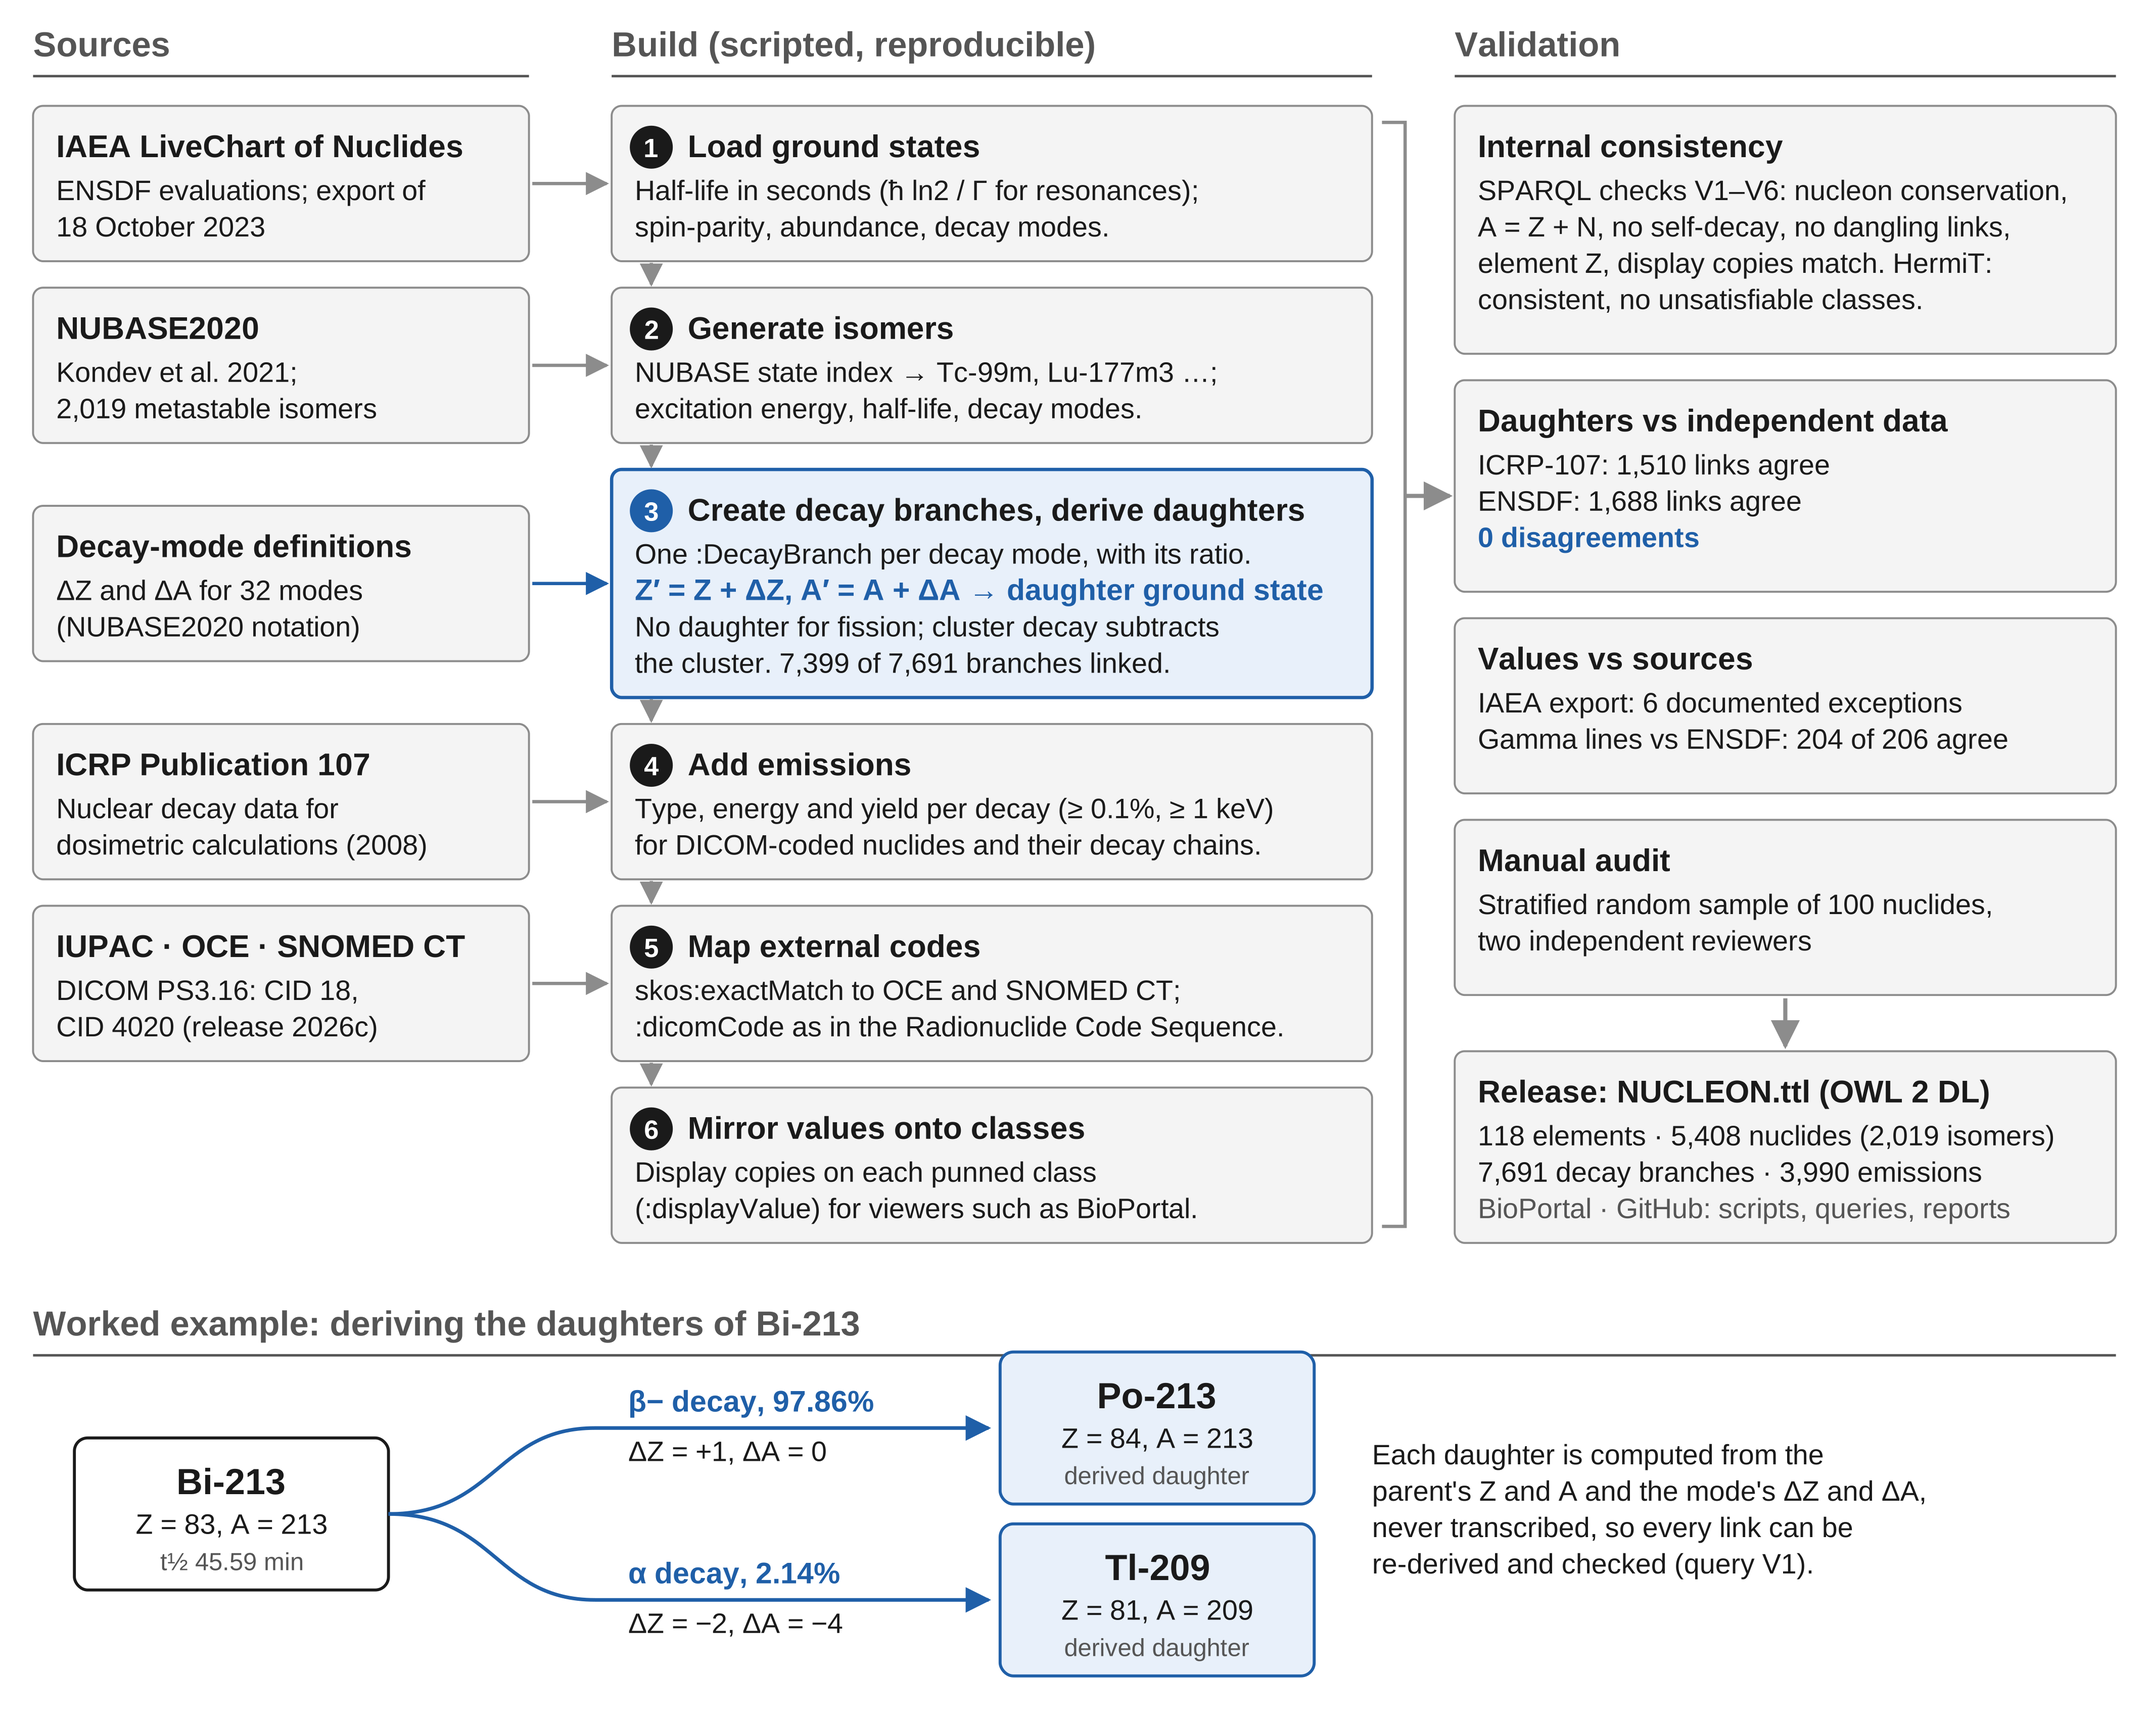
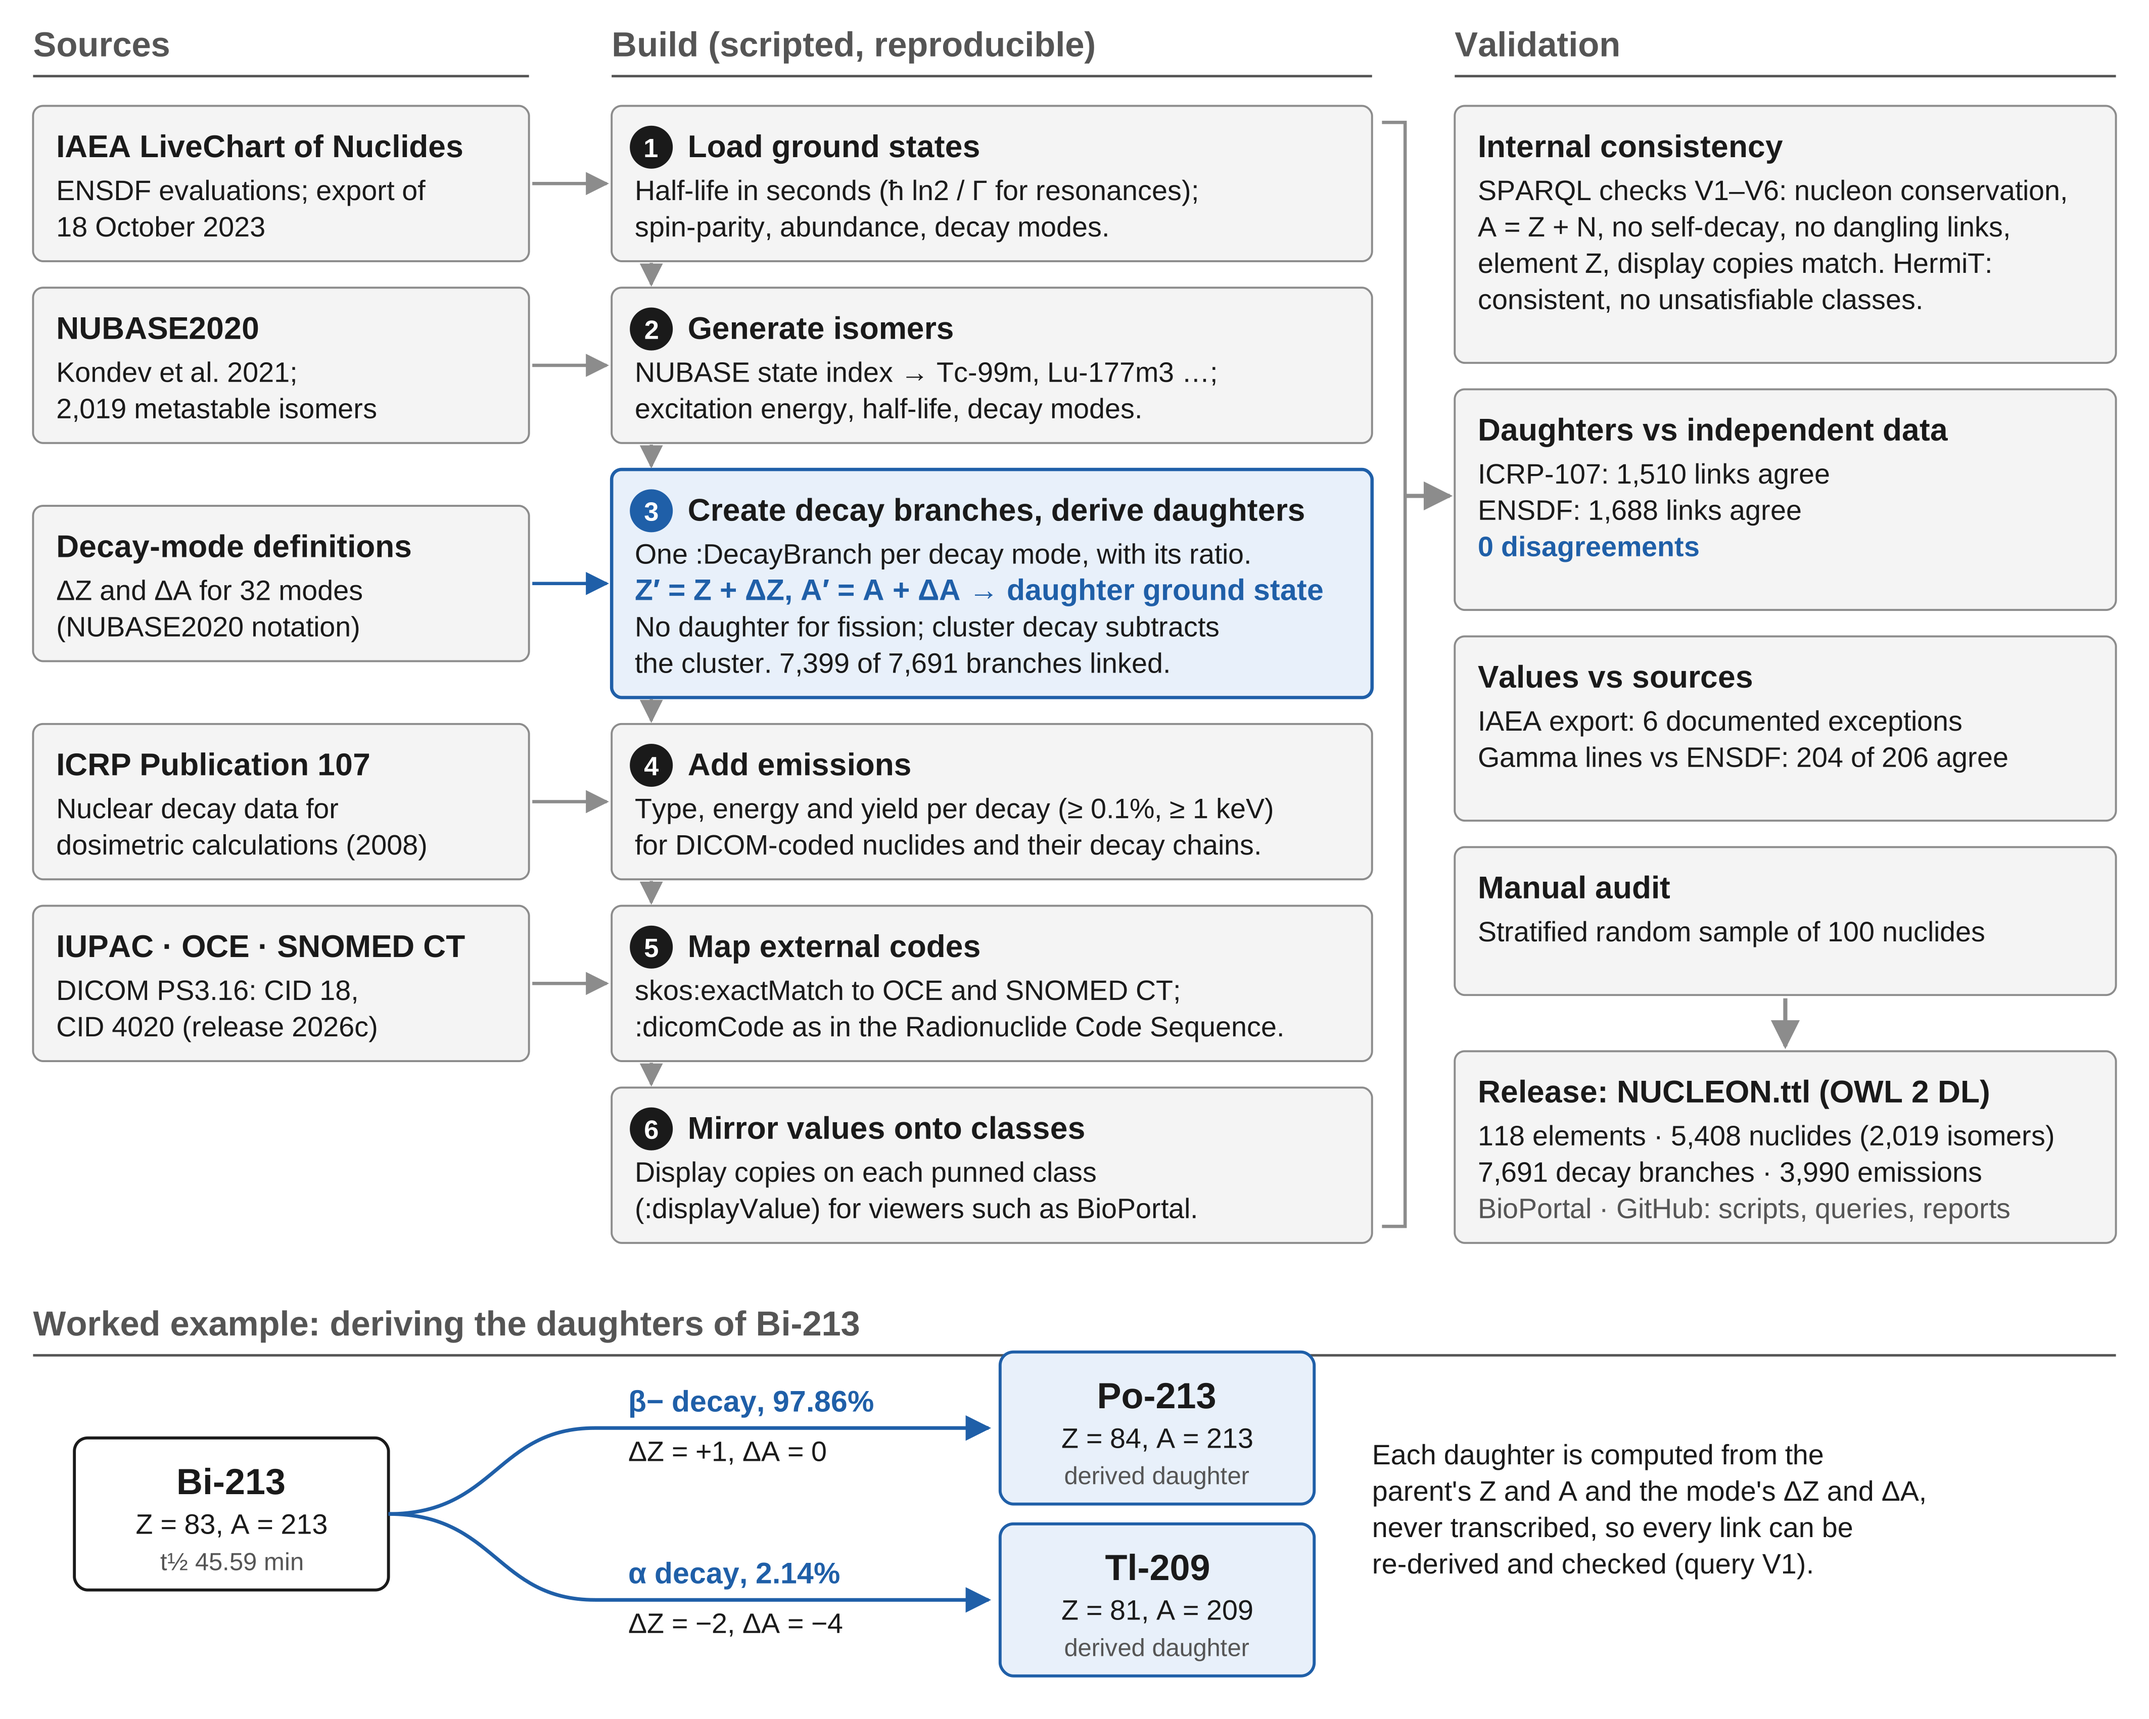
Manual audit by one reviewer: Figure 2 and audit protocol
Figure 2's Manual audit box now reads "Stratified random sample of 100
nuclides"; validation/README.md and the sampling script describe a
single reviewer.

Claude-Session: https://claude.ai/code/session_01U6xhbV6sCj4eYhbFMowS9Y

Changed region(s): [[0.683, 0.2181, 0.9934, 0.5608]]

diff --git a/scripts/draw_audit_sample.py b/scripts/draw_audit_sample.py
@@ -3,13 +3,13 @@
 
 Every nuclide is assigned to exactly one stratum (first match in the order
 below), then a fixed number is drawn from each with a fixed seed, so the sample
-is reproducible. Reviewers compare the NUCLEON values in the sheet with the
+is reproducible. The reviewer compares the NUCLEON values in the sheet with the
 IAEA LiveChart of Nuclides web interface (https://nds.iaea.org/livechart/).
 
 Outputs (in validation/):
   audit_sample.csv      the review sheet; reviewer columns are blank
   audit_sample_key.csv  which sampled nuclides the automated comparisons
-                        flagged; keep from reviewers until they finish, so
+                        flagged; keep from the reviewer until the audit ends, so
                         the audit stays blind
 
 Usage: python3 scripts/draw_audit_sample.py [NUCLEON.ttl] [outdir] [seed]

diff --git a/docs/figures/make_methods_figure.py b/docs/figures/make_methods_figure.py
@@ -125,8 +125,7 @@ vboxes = [
                                        ("0 disagreements", {"weight": "bold", "color": ACCENT})]),
     ("Values vs sources", ["IAEA export: 6 documented exceptions",
                            "Gamma lines vs ENSDF: 204 of 206 agree"]),
-    ("Manual audit", ["Stratified random sample of 100 nuclides,",
-                      "two independent reviewers"]),
+    ("Manual audit", ["Stratified random sample of 100 nuclides"]),
 ]
 REL = ("Release: NUCLEON.ttl (OWL 2 DL)",
        ["118 elements \u00b7 5,408 nuclides (2,019 isomers)",

diff --git a/validation/README.md b/validation/README.md
@@ -13,7 +13,7 @@ Results for NUCLEON v1.6 (`NUCLEON.ttl` at the commit containing this file). Pro
 | Ground states vs the IAEA source export | 3,386 rows | All values match, apart from 6 documented exceptions |
 | Isomers vs NUBASE2020 | 2,019 isomers | Generated from NUBASE2020; mapping of the 716 earlier isomers in [`isomer_mapping.csv`](isomer_mapping.csv) |
 | Emissions (ICRP-107) vs ENSDF gamma energies | 216 gamma lines with yield &ge; 5% | 204 agree; 10 not checkable; 2 explained (see section 4) |
-| Manual audit | Stratified random sample of 100 | Sheet ready for two reviewers ([`audit_sample.csv`](audit_sample.csv)) |
+| Manual audit | Stratified random sample of 100 | Sheet ready for the reviewer ([`audit_sample.csv`](audit_sample.csv)) |
 
 No derived parent&ndash;daughter link contradicts either reference.
 
@@ -113,7 +113,7 @@ The structural checks in [`report.txt`](report.txt) confirm every emission has e
 | One branch, half-life &ge; 1 s | 15 | 1,139 |
 | **Total** | **100** | 5,387 |
 
-**Protocol.** Two reviewers independently fill in the blank columns of [`audit_sample.csv`](audit_sample.csv), each in their own copy. Ground states are checked against the [IAEA LiveChart of Nuclides](https://nds.iaea.org/livechart/) and isomers against NUBASE2020. For each nuclide they record the reference half-life and decay modes, and mark half-life, modes and ratios, daughters, and abundance as Y or N. Discrepancies between reviewers are resolved by discussion. [`audit_sample_key.csv`](audit_sample_key.csv) lists which sampled nuclides the automated comparisons flagged (1 of 100). Keep it from reviewers until both have finished, so the audit stays blind.
+**Protocol.** One reviewer fills in the blank columns of [`audit_sample.csv`](audit_sample.csv). Ground states are checked against the [IAEA LiveChart of Nuclides](https://nds.iaea.org/livechart/) and isomers against NUBASE2020. For each nuclide the reviewer records the reference half-life and decay modes, and marks half-life, modes and ratios, daughters, and abundance as Y or N. [`audit_sample_key.csv`](audit_sample_key.csv) lists which sampled nuclides the automated comparisons flagged (1 of 100). Keep it from the reviewer until the audit is finished, so the audit stays blind.
 
 ## Reproducing
 
